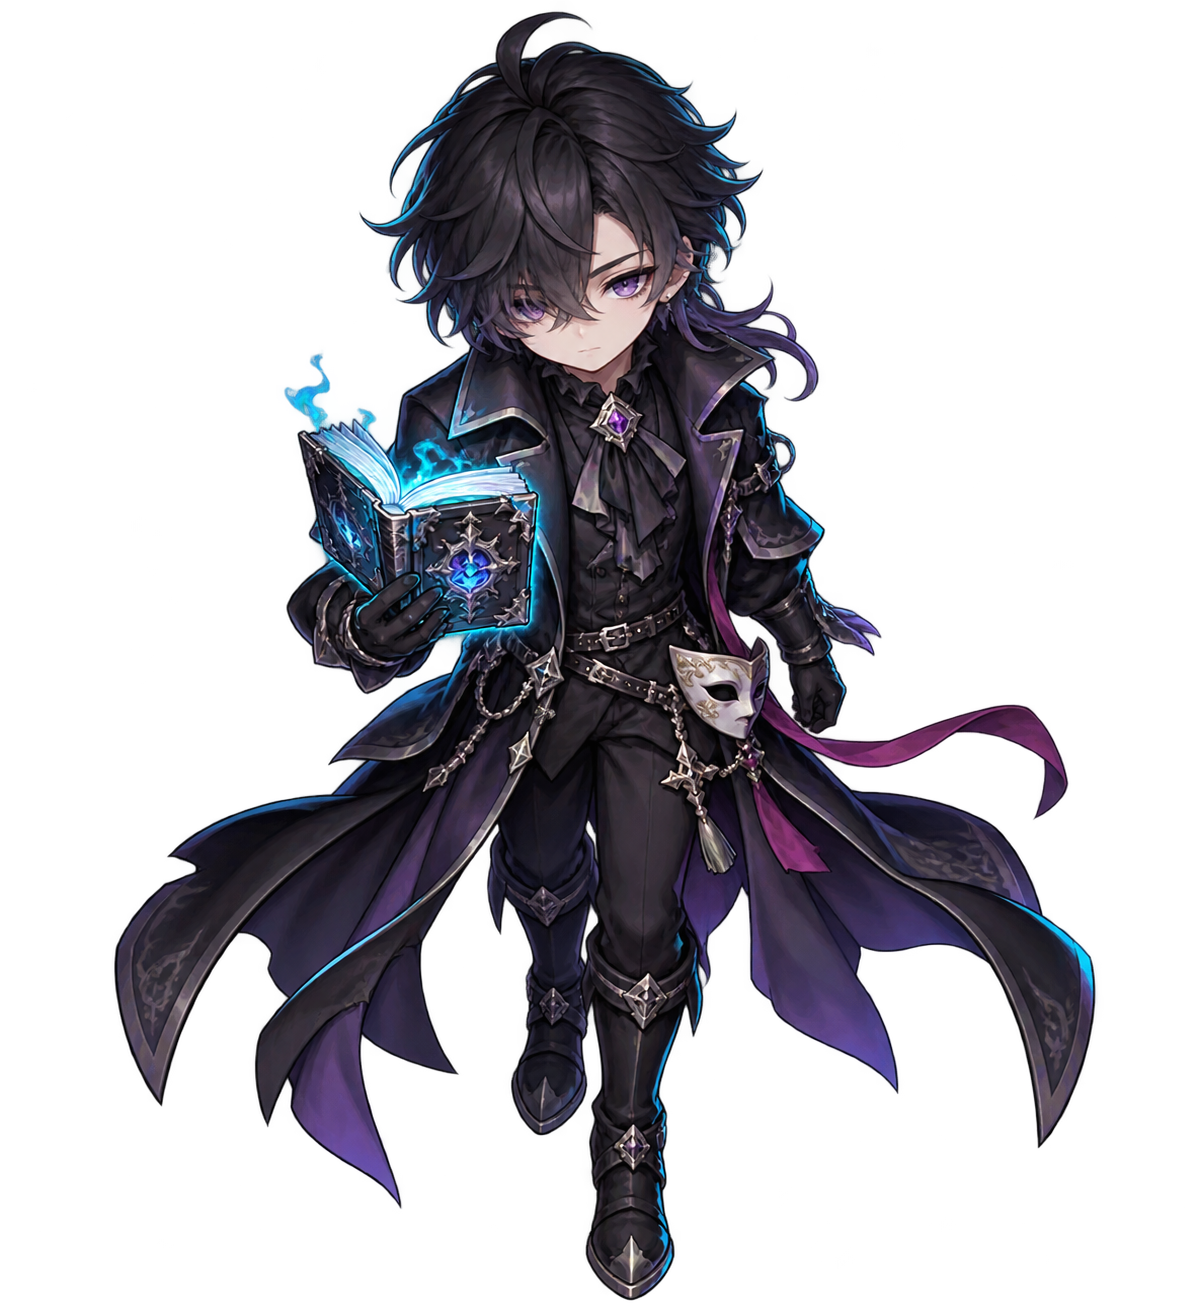
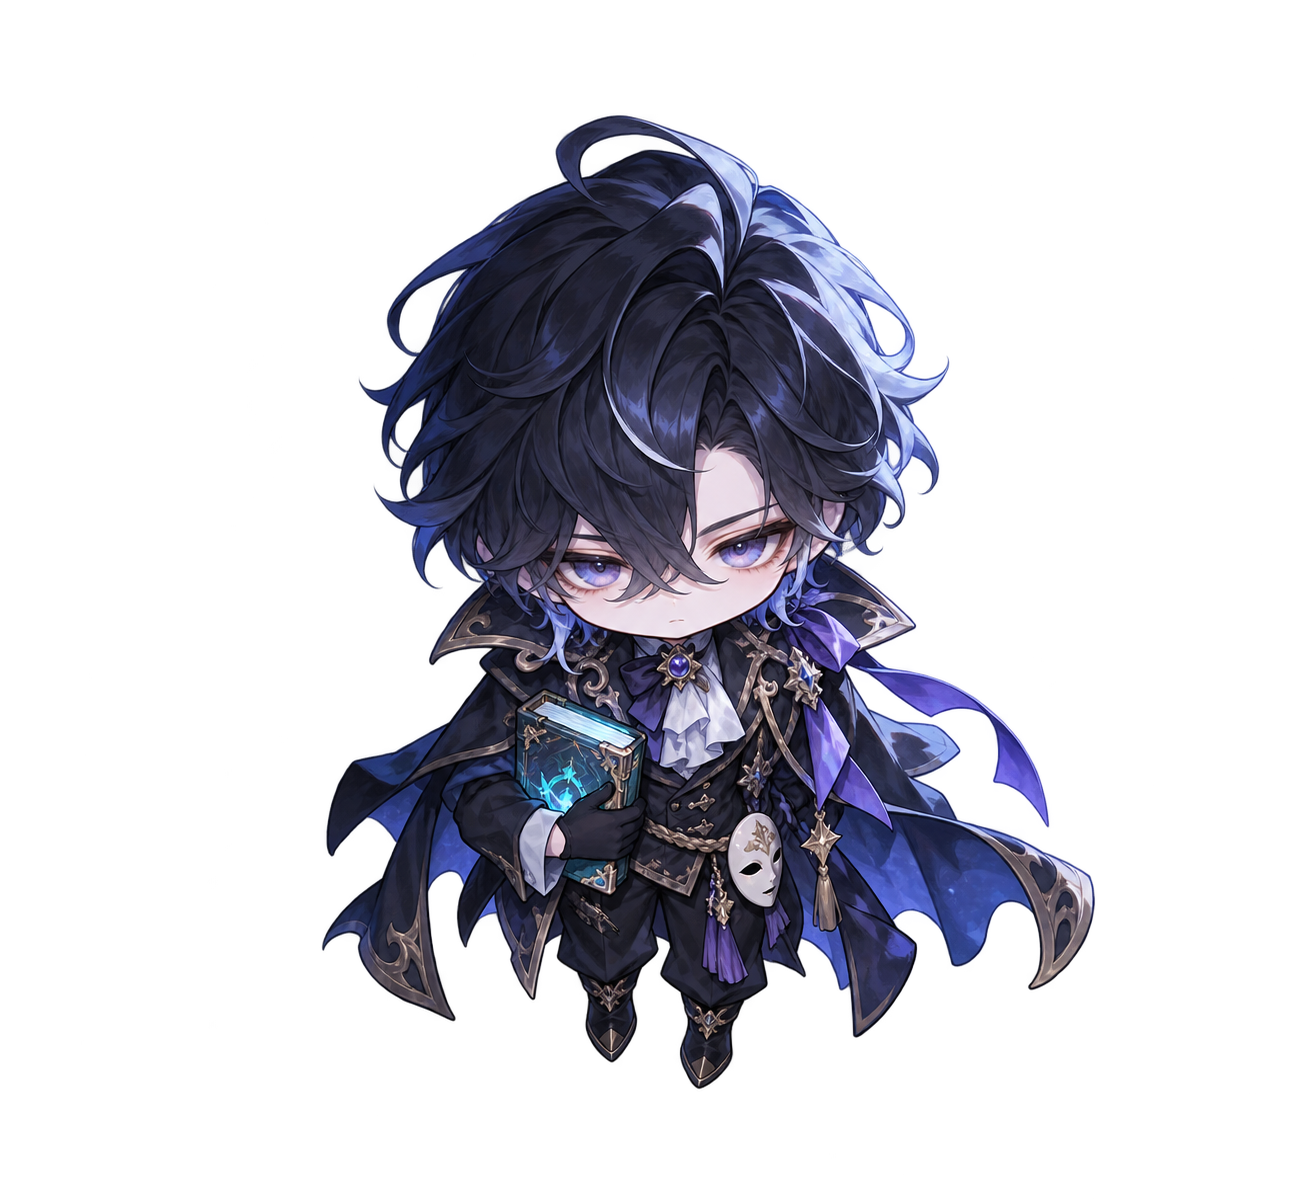
fix: align moonlit traversal with painted terrain

diff --git a/Assets/Editor/PlayablePrologueGenerator.cs b/Assets/Editor/PlayablePrologueGenerator.cs
@@ -144,7 +144,7 @@ namespace ShadowTheater.EditorTools
             CreateEncounter(map.fieldRoot, "WanderingBeast", new Vector2Int(-2, -4), LoadShadow("beast"), 5, 7);
             CreatePortal(map.fieldRoot, "ToEchoVillage", new Vector2Int(-9, 0), "EchoVillage",
                 new Vector2Int(8, 0), FacingDir.Left);
-            CreatePortal(map.fieldRoot, "ToMoonlitBoss", new Vector2Int(0, 8), "MoonlitBossStage",
+            CreatePortal(map.fieldRoot, "ToMoonlitBoss", new Vector2Int(-3, 8), "MoonlitBossStage",
                 new Vector2Int(0, -6), FacingDir.Up, false, "quest_prologue_04_echoes_complete");
             FinishFieldScene(map, "MoonlitMeadow");
         }
@@ -155,7 +155,7 @@ namespace ShadowTheater.EditorTools
                 new Color(0.045f, 0.035f, 0.09f), Theme.Boss);
             CreateBoss(map.fieldRoot, new Vector2Int(0, 3));
             CreatePortal(map.fieldRoot, "BackToMeadow", new Vector2Int(0, -8), "MoonlitMeadow",
-                new Vector2Int(0, 7), FacingDir.Down);
+                new Vector2Int(-3, 7), FacingDir.Down);
             CreatePortal(map.fieldRoot, "ToCurtainPass", new Vector2Int(9, 0), "CurtainPass",
                 new Vector2Int(-8, 0), FacingDir.Right, false, "boss_moonlit_story_complete");
             FinishFieldScene(map, "MoonlitBossStage");
@@ -335,9 +335,21 @@ namespace ShadowTheater.EditorTools
             var renderer = go.GetComponent<SpriteRenderer>();
             renderer.sprite = LoadPlayerFieldSprite();
             if (renderer.sprite == null) renderer.sprite = LoadShadow("knight")?.silhouetteSprite;
-            renderer.color = _playerFieldSprite != null ? Color.white : new Color(0.10f, 0.055f, 0.16f, 1f);
+            renderer.color = _playerFieldSprite != null
+                ? new Color(.92f, .96f, 1f, 1f)
+                : new Color(0.10f, 0.055f, 0.16f, 1f);
             renderer.sortingOrder = 10;
             if (_playerFieldSprite == null) ApplyLit(renderer);
+
+            EnsureEnvironmentAssets();
+            var shadow = new GameObject("GroundShadow", typeof(SpriteRenderer));
+            shadow.transform.SetParent(go.transform, false);
+            shadow.transform.localPosition = new Vector3(0f, .05f, 0f);
+            shadow.transform.localScale = new Vector3(.72f, .24f, 1f);
+            var shadowRenderer = shadow.GetComponent<SpriteRenderer>();
+            shadowRenderer.sprite = _moteSprite;
+            shadowRenderer.color = new Color(.015f, .02f, .055f, .48f);
+            shadowRenderer.sortingOrder = 9;
             go.GetComponent<Rigidbody2D>().gravityScale = 0f;
             go.GetComponent<CapsuleCollider2D>().size = new Vector2(0.55f, 0.75f);
             var so = new SerializedObject(go.GetComponent<PlayerController>());
@@ -357,7 +369,7 @@ namespace ShadowTheater.EditorTools
             }
             importer.textureType = TextureImporterType.Sprite;
             importer.spriteImportMode = SpriteImportMode.Single;
-            importer.spritePixelsPerUnit = 820f;
+            importer.spritePixelsPerUnit = 950f;
             var textureSettings = new TextureImporterSettings();
             importer.ReadTextureSettings(textureSettings);
             textureSettings.spriteAlignment = (int)SpriteAlignment.Custom;
@@ -423,6 +435,12 @@ namespace ShadowTheater.EditorTools
                 collision.SetTile(new Vector3Int(11, y, 0), _wallTile);
             }
 
+            if (theme == Theme.Meadow)
+            {
+                PaintMoonlitMeadowCollision(collision);
+                return;
+            }
+
             var blocks = new List<RectInt>();
             switch (theme)
             {
@@ -432,10 +450,6 @@ namespace ShadowTheater.EditorTools
                 case Theme.Village:
                     blocks.Add(new RectInt(-5, 3, 3, 3)); blocks.Add(new RectInt(3, 3, 3, 3));
                     blocks.Add(new RectInt(-4, -6, 2, 3)); blocks.Add(new RectInt(5, -5, 2, 2)); break;
-                case Theme.Meadow:
-                    blocks.Add(new RectInt(-6, 4, 2, 2)); blocks.Add(new RectInt(5, 2, 2, 3));
-                    blocks.Add(new RectInt(-6, -5, 3, 2)); blocks.Add(new RectInt(2, -6, 2, 2));
-                    blocks.Add(new RectInt(-9, 6, 3, 2)); blocks.Add(new RectInt(7, -6, 2, 3)); break;
                 case Theme.AshWastes:
                     blocks.Add(new RectInt(-7,3,3,2)); blocks.Add(new RectInt(4,4,3,2));
                     blocks.Add(new RectInt(-5,-5,2,3)); blocks.Add(new RectInt(3,-6,2,3));
@@ -456,6 +470,31 @@ namespace ShadowTheater.EditorTools
             foreach (var block in blocks)
                 for (int y = block.yMin; y < block.yMax; y++)
                 for (int x = block.xMin; x < block.xMax; x++) collision.SetTile(new Vector3Int(x, y, 0), _accentTile);
+        }
+
+        private static void PaintMoonlitMeadowCollision(Tilemap collision)
+        {
+            for (int y = -8; y <= 8; y++)
+            for (int x = -10; x <= 10; x++)
+            {
+                bool westEntrance = x >= -10 && x <= -6 && y >= -1 && y <= 1;
+                bool centralClearing = x >= -8 && x <= 5 && y >= -4 && y <= 2;
+                bool northernTrail = x >= -4 && x <= -2 && y >= 2 && y <= 8;
+                bool upperLoop = x >= -5 && x <= 4 && y >= 3 && y <= 5;
+                bool southernLoop = x >= -7 && x <= 5 && y >= -6 && y <= -3;
+                bool eastConnector = x >= 3 && x <= 5 && y >= -5 && y <= 4;
+                bool walkable = westEntrance || centralClearing || northernTrail || upperLoop ||
+                                southernLoop || eastConnector;
+
+                // Major painted landmarks get matching collision instead of allowing the
+                // player to walk over cliffs, the central grove, water, and lower ruins.
+                bool centralGrove = x >= -1 && x <= 1 && y >= 2 && y <= 4;
+                bool westernCliff = x <= -6 && y >= 2;
+                bool easternWater = x >= 6 && y >= -2;
+                bool lowerRuin = x >= -1 && x <= 1 && y <= -5;
+                if (!walkable || centralGrove || westernCliff || easternWater || lowerRuin)
+                    collision.SetTile(new Vector3Int(x, y, 0), _wallTile);
+            }
         }
 
         private static void CreateNpc(Transform parent, string name, Vector2Int cell, ShadowData visual,

diff --git a/README.md b/README.md
@@ -186,6 +186,10 @@ Bloom·색 보정·비네트, 이동 안개와 반딧불을 결합합니다. 배
 좌우·상하 이동과 분기형 탐색 구조는 그대로 유지됩니다.
 
 필드 플레이어는 임시 스타터 실루엣 대신 `Assets/Art/Characters/Player/TheaterDirector_Field.png`의
-극단주 전용 스프라이트를 사용합니다. 프레임 애니메이션 없이도 이동 보간, 좌우 반전과 바운스로
+한 칸 크기 치비 극단주 스프라이트를 사용합니다. 발밑 그림자와 함께 이동 보간, 좌우 반전과 바운스로
 걷는 느낌을 유지합니다. 커스텀 발 위치 피벗은 Unity 2022와 호환되는 `TextureImporterSettings`를
 통해 자동 적용됩니다.
+
+달빛 초원은 별도의 이동 마스크를 사용합니다. 중앙 공터, 서쪽 입구, 북쪽 길, 상·하단 우회로와
+동쪽 연결로만 이동할 수 있으며 배경에 그려진 절벽·물·나무 군락·폐허에는 진입할 수 없습니다.
+보스 출구와 복귀 지점도 북쪽 길의 `(-3, 8)` / `(-3, 7)` 좌표에 맞춰 배치됩니다.
